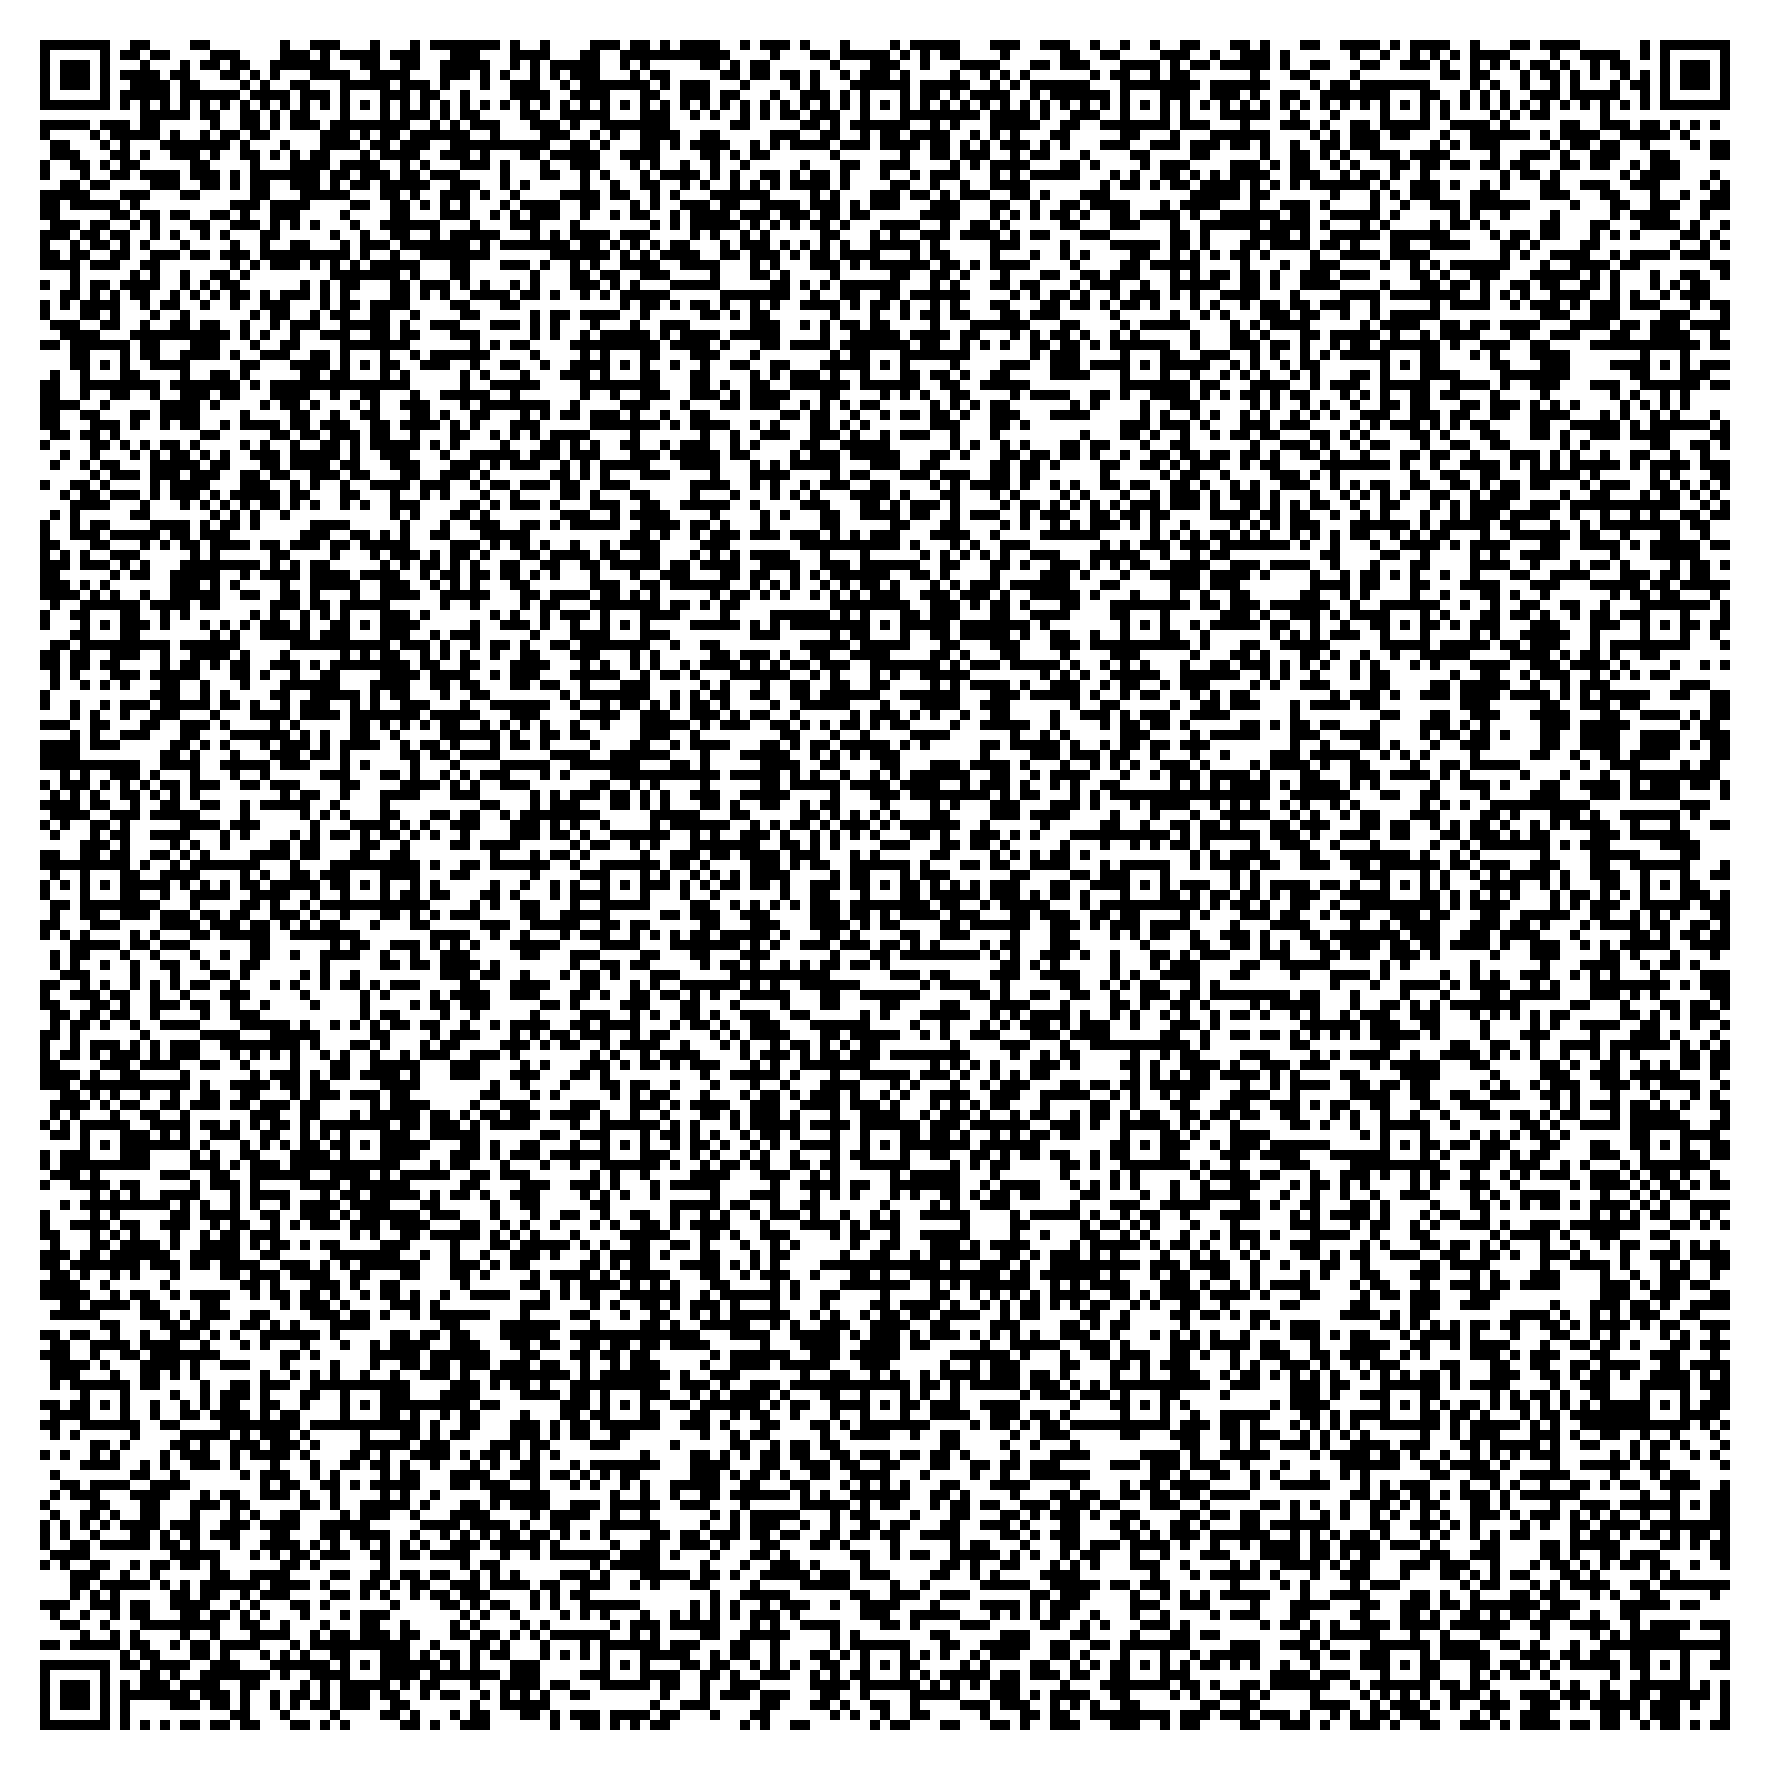
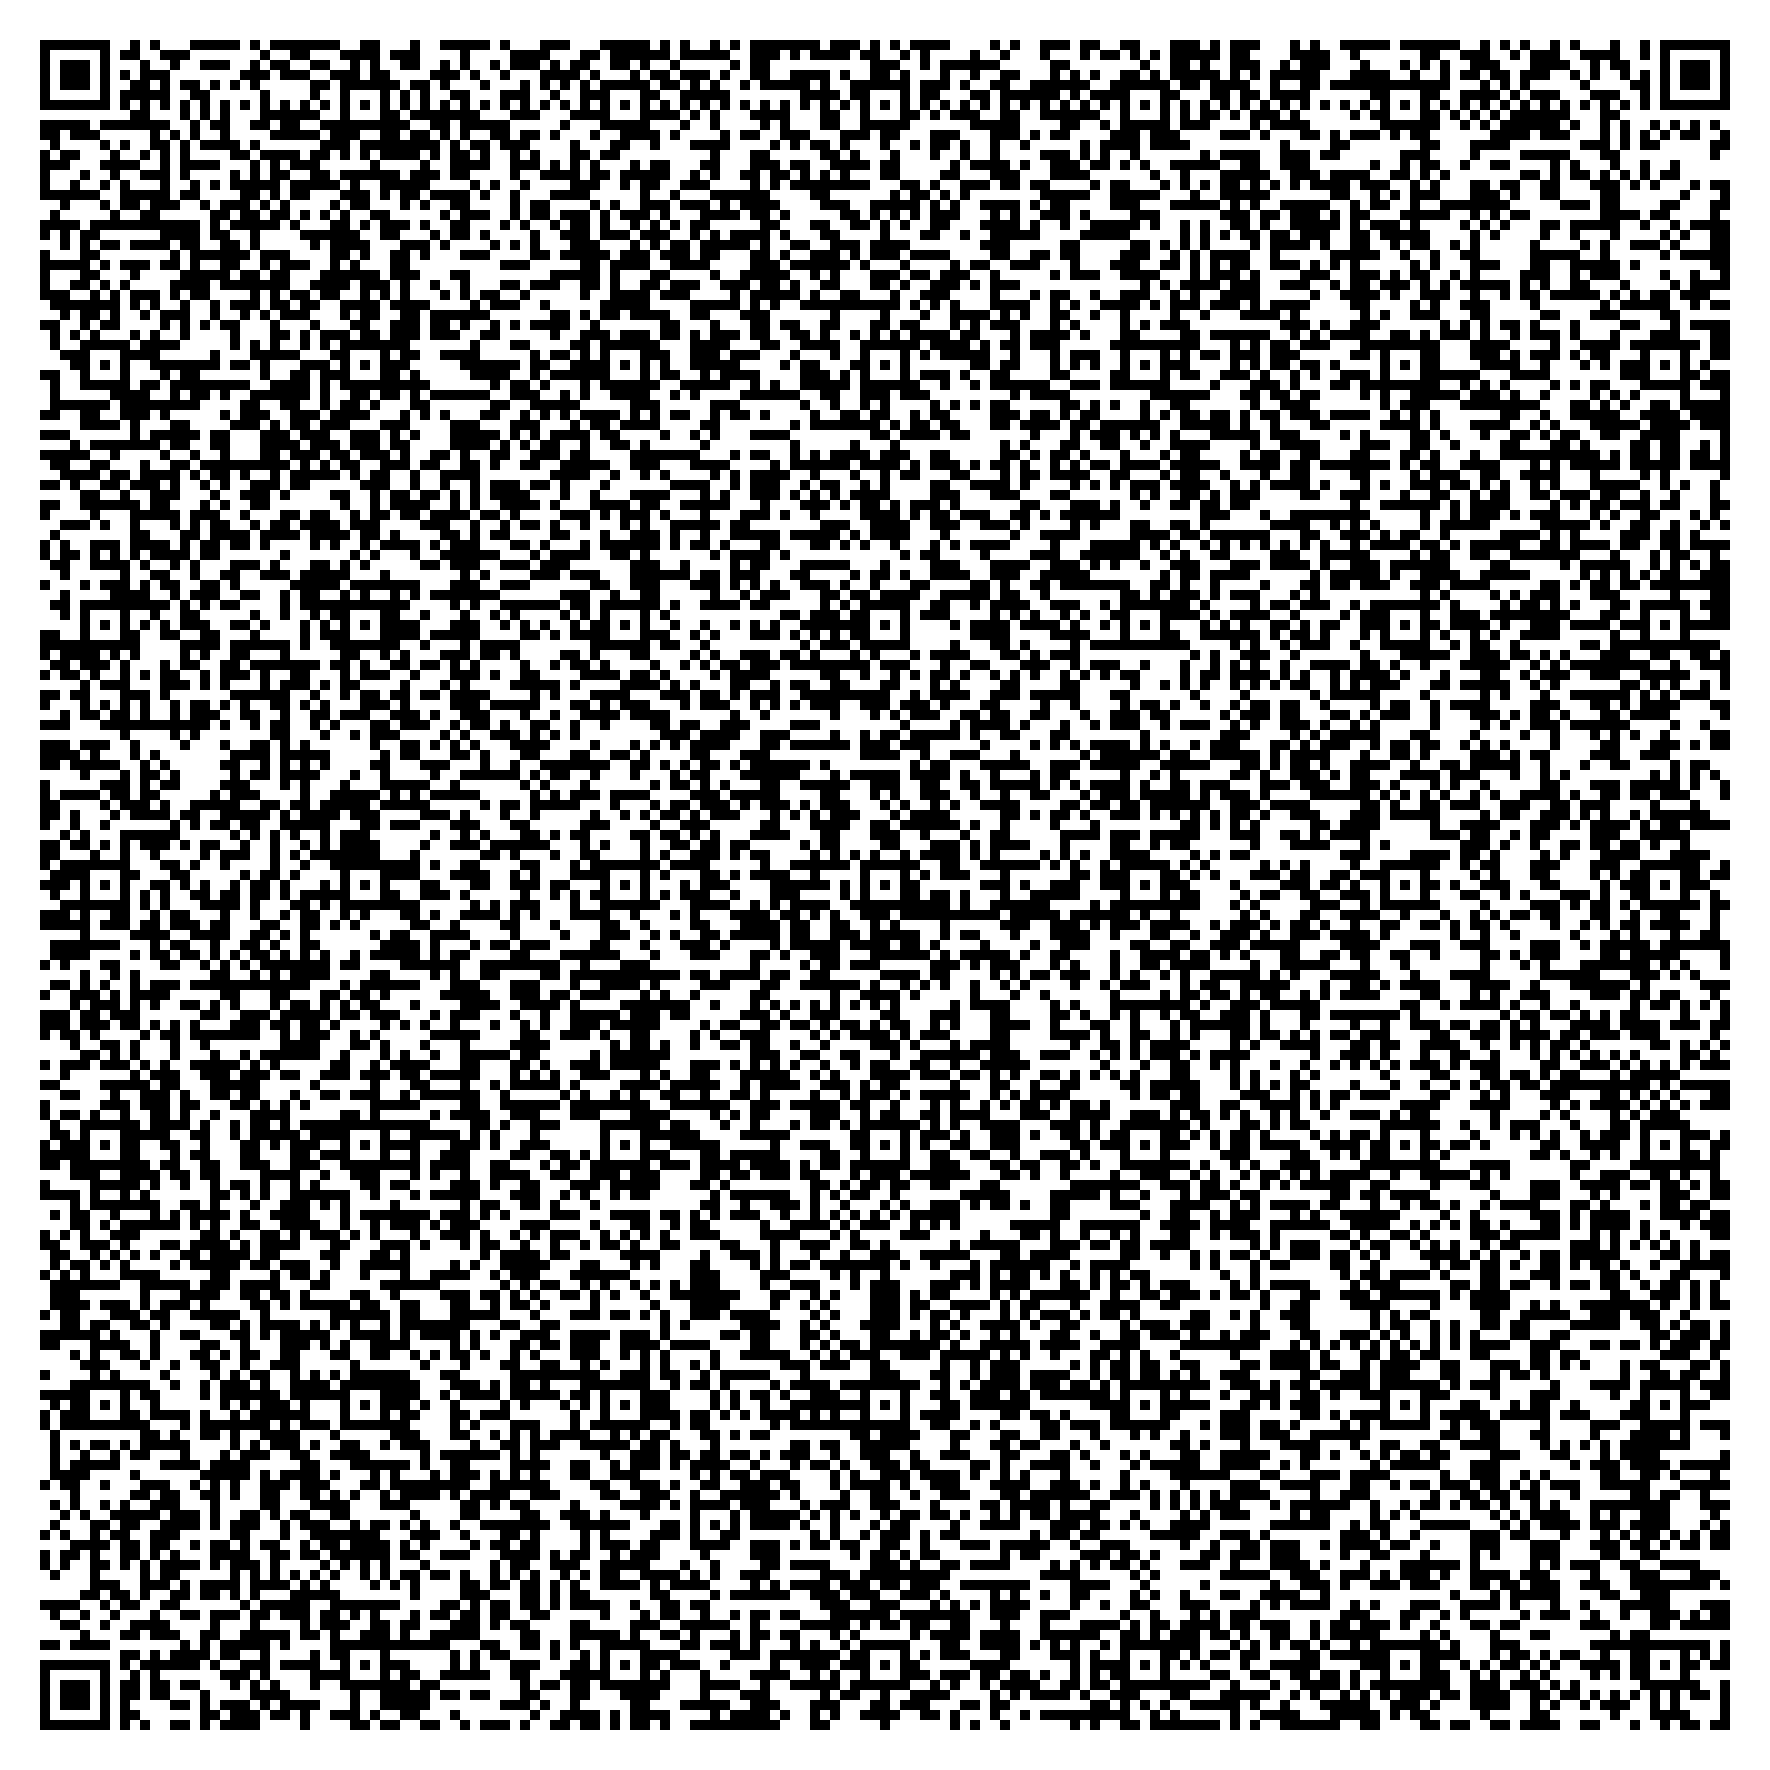
Removed seeding for default cases ; more generated outputs

diff --git a/picogpt.js b/picogpt.js
@@ -13,7 +13,7 @@ const gauss = (m,s) => m + s * Math.sqrt(-2*Math.log(rand())) * Math.cos(2*Math.
 const shuffle = a => { for (let i = a.length-1; i > 0; i--) { const j = rand()*(i+1)|0; [a[i],a[j]]=[a[j],a[i]]; } };
 const choices = (p,w) => { let t=0; for (const x of w) t+=x; let r=rand()*t; for (let i=0;i<p.length;i++) { r-=w[i]; if(r<=0) return p[i]; } return p.at(-1); };
 
-seed(42);
+seed(Date.now());
 
 // ── Data ─────────────────────────────────────────────────────────────────────
 const INPUT = 'input.txt';

diff --git a/picogpt.qr.html b/picogpt.qr.html
@@ -1,5 +1,5 @@
 <pre style="background:#111;color:#0ff;padding:20px" id=o><script type=module>
-let P=t=>{o.textContent+=t+'\n';scrollTo(0,1e9)},S=new Uint32Array(4),s=42,i,j
+let P=t=>{o.textContent+=t+'\n';scrollTo(0,1e9)},S=new Uint32Array(4),s=Date.now(),i,j
 for(i=0;i<4;i++)S[i]=(s=Math.imul(s,1664525)+1013904223)>>>0
 let R=()=>{let r=Math.imul(S[1],5),t=S[1]<<9;S[2]^=S[0];S[3]^=S[1];S[1]^=S[2];S[0]^=S[3];S[2]^=t;S[3]=(S[3]<<11)|(S[3]>>>21);return(r>>>0)/4294967296}
 let G=(m,d)=>m+d*Math.sqrt(-2*Math.log(R()))*Math.cos(2*Math.PI*R()),_g=0

diff --git a/index.html b/index.html
@@ -353,7 +353,7 @@
 
         // ─── Auto-start ───
         (async function () {
-            seed(42);
+            seed(Date.now());
             const res = await fetch('https://raw.githubusercontent.com/karpathy/makemore/refs/heads/master/names.txt');
             const docs = (await res.text()).trim().split('\n').map(s => s.trim()).filter(Boolean);
             for (let i = docs.length - 1; i > 0; i--) { const j = rand() * (i + 1) | 0;[docs[i], docs[j]] = [docs[j], docs[i]] }

diff --git a/legacy/picogpt.py b/legacy/picogpt.py
@@ -1,7 +1,7 @@
 v,u,t,l='lm_head','wpe','wte','input.txt'
 s,R,M,L,F,B=isinstance,zip,sum,print,len,range
-import os,math as N,random as S
-S.seed(42)
+import os,math as N,random as S,time as TI
+S.seed(int(TI.time()*1000))
 if not os.path.exists(l):import urllib.request as P;P.urlretrieve('https://raw.githubusercontent.com/karpathy/makemore/refs/heads/master/names.txt',l)
 O=[x.strip()for x in open(l).read().splitlines()if x.strip()];S.shuffle(O);L(f"num docs: {F(O)}")
 T=sorted(set(''.join(O)));U,V=F(T),F(T)+1;L(f"vocab size: {V}")
